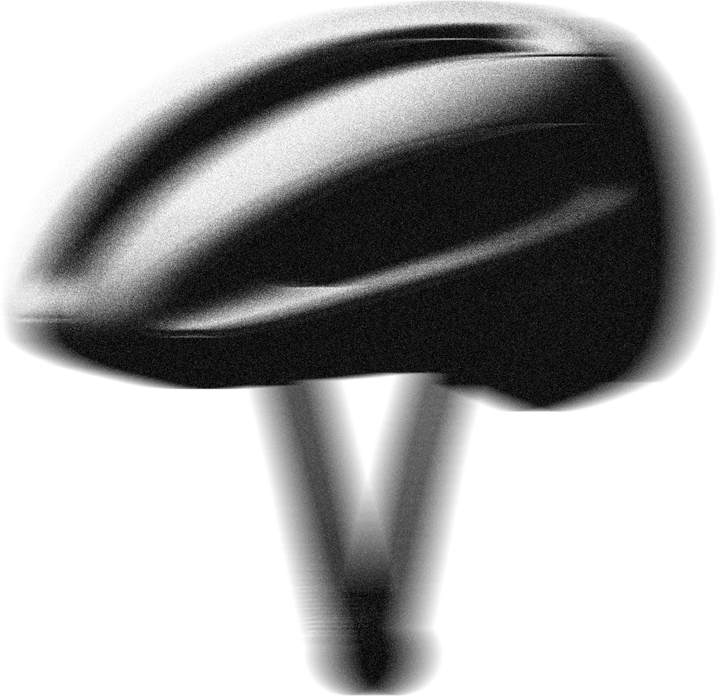
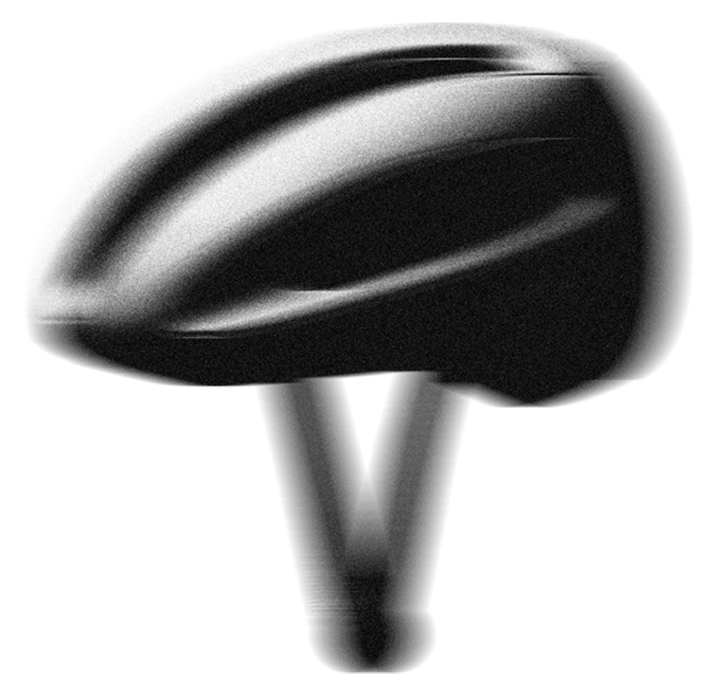
UPLOAD

Changed region(s): [[0.0, 0.0, 1.0, 1.0]]

diff --git a/assets/js/app.js b/assets/js/app.js
@@ -27,14 +27,14 @@ const STATIC_IMAGE_PRELOAD_URLS = [
 ];
 
 function normalizeHeroUiTone(value) {
-  return value === "black" ? "black" : "white";
+  return value === "white" ? "white" : "black";
 }
 
 function getStoredHeroUiTone() {
   try {
     return normalizeHeroUiTone(window.localStorage.getItem(HERO_UI_TONE_STORAGE_KEY) || "");
   } catch (_error) {
-    return "white";
+    return "black";
   }
 }
 
@@ -1155,13 +1155,18 @@ const slideEls = slides.map((slideData) => {
 
 const heroLayerAEl = slideEls[0]?.querySelector("#hero-layer-a");
 const heroLayerBEl = slideEls[0]?.querySelector("#hero-layer-b");
-let heroBackgroundSources = ["./assets/images/casco.png"];
+const heroCarouselEl = slideEls[0]?.querySelector(".hero-carousel");
+let heroBackgroundSources = [];
 let heroActiveLayerIsA = true;
 let heroCarouselIndex = 0;
 let heroCarouselTimerId = null;
 
 function setHeroLayerSource(layerEl, sourceUrl) {
-  if (!(layerEl instanceof HTMLElement) || !sourceUrl) {
+  if (!(layerEl instanceof HTMLElement)) {
+    return;
+  }
+  if (!sourceUrl) {
+    layerEl.style.backgroundImage = "none";
     return;
   }
   layerEl.style.backgroundImage = `url("${sourceUrl.replace(/"/g, "%22")}")`;
@@ -1171,16 +1176,20 @@ function applyHeroBackgroundSources(sourceUrls) {
   const nextSources = Array.isArray(sourceUrls)
     ? sourceUrls.filter((sourceUrl, index, arr) => Boolean(sourceUrl) && arr.indexOf(sourceUrl) === index)
     : [];
-  heroBackgroundSources = nextSources.length > 0 ? nextSources : ["./assets/images/casco.png"];
+  heroBackgroundSources = nextSources;
   heroCarouselIndex = 0;
   heroActiveLayerIsA = true;
-  setHeroLayerSource(heroLayerAEl, heroBackgroundSources[0]);
-  setHeroLayerSource(heroLayerBEl, heroBackgroundSources[0]);
+  const firstSource = heroBackgroundSources[0] || "";
+  setHeroLayerSource(heroLayerAEl, firstSource);
+  setHeroLayerSource(heroLayerBEl, firstSource);
   if (heroLayerAEl instanceof HTMLElement) {
-    heroLayerAEl.classList.add("is-active");
+    heroLayerAEl.classList.toggle("is-active", Boolean(firstSource));
   }
   if (heroLayerBEl instanceof HTMLElement) {
     heroLayerBEl.classList.remove("is-active");
+  }
+  if (heroCarouselEl instanceof HTMLElement) {
+    heroCarouselEl.classList.toggle("has-media", Boolean(firstSource));
   }
 }
 
@@ -1519,9 +1528,8 @@ registerStartupTask((async () => {
     .filter((item) => item && typeof item === "object" && !item.isAlex)
     .map((item) => (typeof item.src === "string" ? item.src : ""))
     .filter((item) => Boolean(item));
-  const nextSources = heroSources.length > 0 ? heroSources : ["./assets/images/casco.png"];
-  await Promise.all(nextSources.map((sourceUrl) => preloadImageUrl(sourceUrl)));
-  applyHeroBackgroundSources(nextSources);
+  await Promise.all(heroSources.map((sourceUrl) => preloadImageUrl(sourceUrl)));
+  applyHeroBackgroundSources(heroSources);
   startHeroCarousel();
 })());
 

diff --git a/assets/css/style.css b/assets/css/style.css
@@ -28,11 +28,15 @@
   --dot-grid-size: 24px;
   --dot-radius: 2px;
   --motion-ease: cubic-bezier(0.22, 1, 0.36, 1);
-  --hero-ui-filter: brightness(0) invert(1);
+  --hero-ui-filter: none;
 }
 
 :root[data-hero-ui-tone="black"] {
   --hero-ui-filter: none;
+}
+
+:root[data-hero-ui-tone="white"] {
+  --hero-ui-filter: brightness(0) invert(1);
 }
 
 body.is-app-loading {
@@ -183,13 +187,17 @@ b{
 .hero-carousel {
   position: absolute;
   inset: 0;
-  background: #000;
+  background: transparent;
 }
 
 .hero-carousel::after {
   content: "";
   position: absolute;
   inset: 0;
+  background: transparent;
+}
+
+.hero-carousel.has-media::after {
   background: rgba(0, 0, 0, 0.28);
 }
 
@@ -1383,7 +1391,7 @@ b{
 }
 
 .target-image--helmet {
-  transform: scale(1.9) translateX(-3px);
+  transform: scale(0.8) translateX(-3px);
   transform-origin: center;
 }
 
